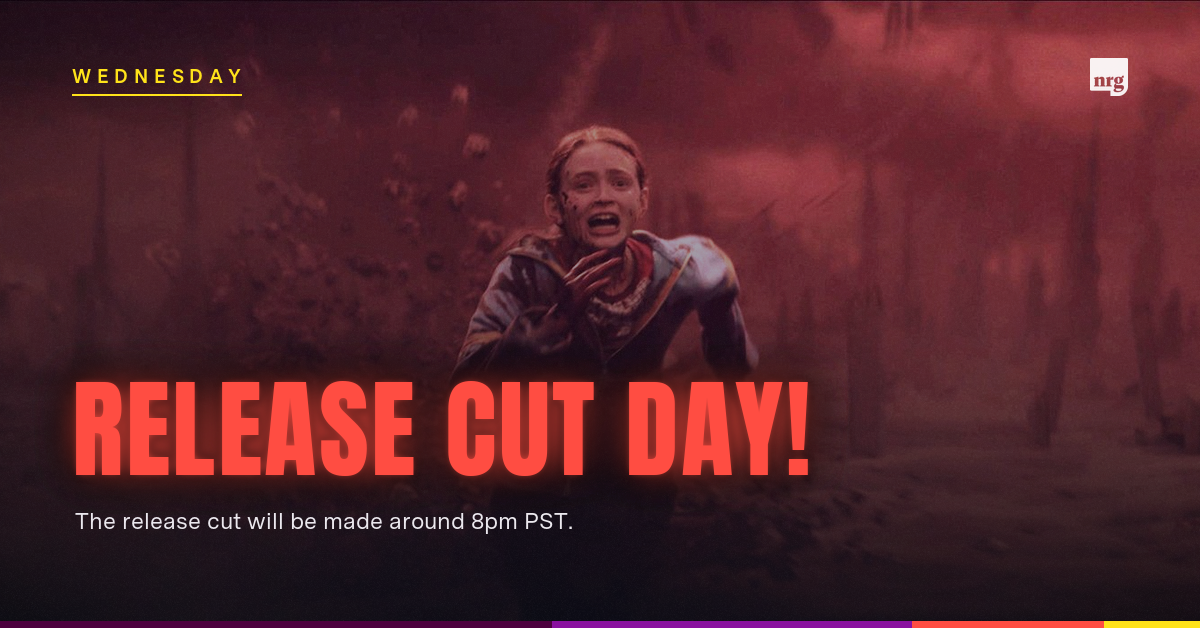
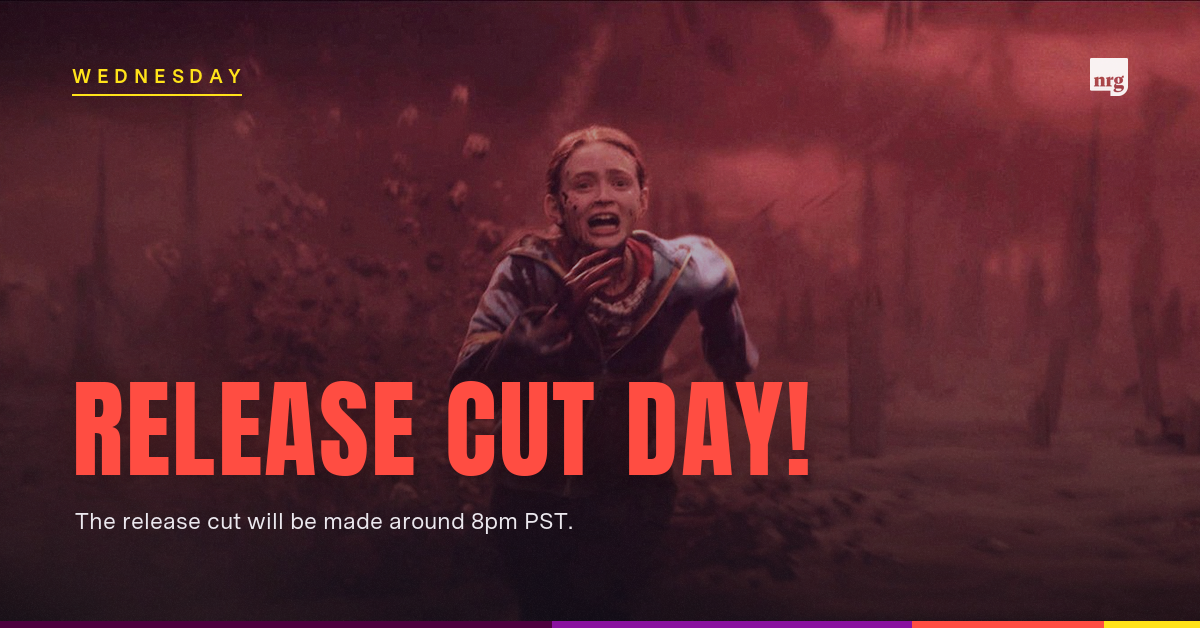
style: soften the title treatment and swap the Tuesday still
- Replace the Tuesday image with the season 5 still (3840x1920, the highest
  resolution source of the four).
- Rework glow_text: one wide low-opacity halo plus a gentle offset drop shadow,
  instead of three stacked full-opacity blur passes. The old treatment read as a
  hard neon rim; this reads as ambient light.
- Ease the background shading in step with it -- the bottom gradient, the side
  gradient, and the vignette were all tuned for the harder title and left the
  photographs murkier than they needed to be.

Legibility was re-checked against Wednesday, the brightest of the four
backgrounds, after softening.

Changed region(s): [[0.37, 0.6051, 0.6783, 0.7866], [0.0617, 0.6051, 0.3392, 0.7564], [0.5242, 0.7564, 0.555, 0.7866]]

diff --git a/scripts/make_art.py b/scripts/make_art.py
@@ -84,7 +84,7 @@ def linear_gradient(size, stops, horizontal=False):
     return g.resize((w, h), Image.BILINEAR)
 
 
-def vignette(size, strength=118):
+def vignette(size, strength=96):
     w, h = size
     m = Image.new("L", (w, h), 0)
     d = ImageDraw.Draw(m)
@@ -159,29 +159,36 @@ def balanced_wrap(text, fnt, max_w, tracking=0):
 
 
 def glow_text(base, lines, fnt, x, y, line_h, colour, tracking=0,
-              glow_colour=None, glow_radius=18, glow_passes=3):
-    """Neon title: blurred coloured glow underneath, crisp text on top."""
+              glow_colour=None, glow_radius=30, glow_opacity=0.30,
+              shadow_opacity=0.28, shadow_offset=4):
+    """Title with a soft halo and a gentle drop shadow, crisp text on top.
+
+    The halo is one wide, low-opacity pass rather than several stacked ones,
+    which reads as ambient light instead of a hard neon rim.
+    """
     glow_colour = glow_colour or colour
-    layer = Image.new("RGBA", base.size, (0, 0, 0, 0))
-    ld = ImageDraw.Draw(layer)
-    cy = y
-    for ln in lines:
-        track_text(ld, (x, cy), ln, fnt, glow_colour + (255,), tracking)
-        cy += line_h
 
-    glow = layer.filter(ImageFilter.GaussianBlur(glow_radius))
-    for _ in range(glow_passes):
-        base.alpha_composite(glow)
-    # tight inner halo
-    base.alpha_composite(layer.filter(ImageFilter.GaussianBlur(glow_radius / 4)))
+    def render(colour_rgba, blur=0, offset=(0, 0)):
+        layer = Image.new("RGBA", base.size, (0, 0, 0, 0))
+        ld = ImageDraw.Draw(layer)
+        cy = y + offset[1]
+        for ln in lines:
+            track_text(ld, (x + offset[0], cy), ln, fnt, colour_rgba, tracking)
+            cy += line_h
+        return layer.filter(ImageFilter.GaussianBlur(blur)) if blur else layer
 
-    sharp = Image.new("RGBA", base.size, (0, 0, 0, 0))
-    sd = ImageDraw.Draw(sharp)
-    cy = y
-    for ln in lines:
-        track_text(sd, (x, cy), ln, fnt, colour + (255,), tracking)
-        cy += line_h
-    base.alpha_composite(sharp)
+    # Soft dark shadow for separation from the photograph.
+    if shadow_opacity > 0:
+        shadow = render((0, 0, 0, round(255 * shadow_opacity)), blur=14,
+                        offset=(shadow_offset, shadow_offset))
+        base.alpha_composite(shadow)
+
+    # Wide ambient halo.
+    if glow_opacity > 0:
+        base.alpha_composite(render(glow_colour + (round(255 * glow_opacity),),
+                                    blur=glow_radius))
+
+    base.alpha_composite(render(colour + (255,)))
 
 
 def build(day, src, title, desc, out):
@@ -201,11 +208,11 @@ def build(day, src, title, desc, out):
 
     # Darken bottom-left so the type has a bed to sit on
     shade = Image.new("RGBA", (W, H), NRG_BLACK + (255,))
-    shade.putalpha(linear_gradient((W, H), [(0.0, 8), (0.45, 52), (1.0, 214)]))
+    shade.putalpha(linear_gradient((W, H), [(0.0, 6), (0.42, 40), (1.0, 178)]))
     canvas.alpha_composite(shade)
 
     side = Image.new("RGBA", (W, H), NRG_BLACK + (255,))
-    side.putalpha(linear_gradient((W, H), [(0.0, 105), (0.62, 22), (1.0, 0)], horizontal=True))
+    side.putalpha(linear_gradient((W, H), [(0.0, 84), (0.62, 16), (1.0, 0)], horizontal=True))
     canvas.alpha_composite(side)
 
     # Vignette + grain
@@ -262,7 +269,7 @@ def build(day, src, title, desc, out):
     title_y = desc_baseline - gap - ink_bottom
 
     glow_text(canvas, lines, f_title, MARGIN, title_y, line_h,
-              NRG_RED, tracking=2.5, glow_radius=20, glow_passes=3)
+              NRG_RED, tracking=2.5)
 
     # --- Description ------------------------------------------------------
     d = ImageDraw.Draw(canvas)
